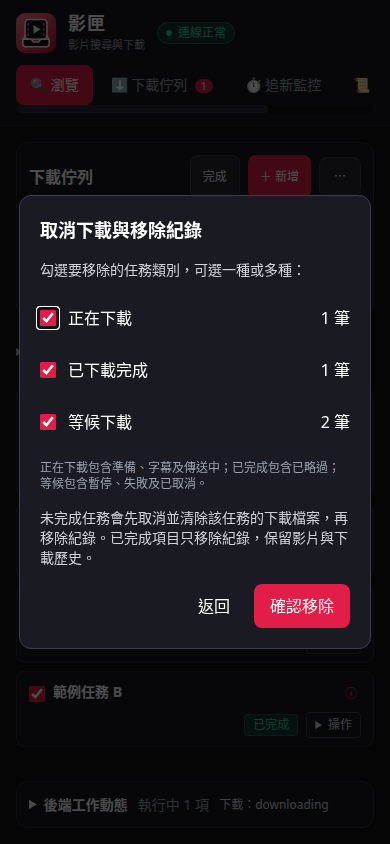
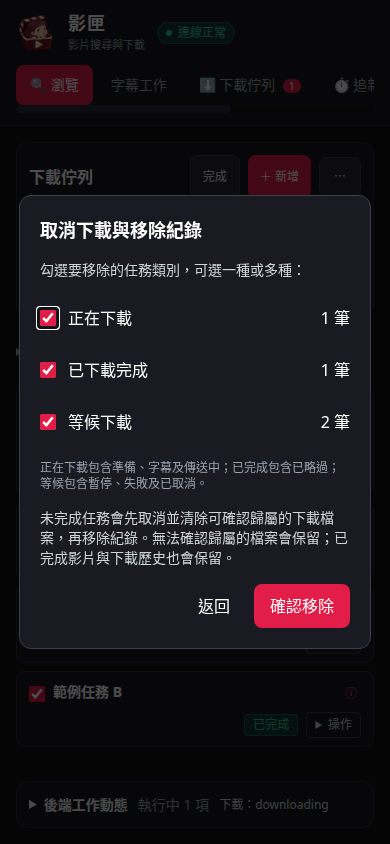
fix: preserve unknown files when removing downloads

diff --git a/uav-web/frontend/task-selection.js b/uav-web/frontend/task-selection.js
@@ -95,11 +95,14 @@ window.createTaskSelection = ({taskAction}) => {
     document.getElementById('task-remove-dialog').close();
     const status = document.getElementById('queue-action-status');
     status.textContent = `正在取消、清理並移除 ${ids.length} 個任務…`;
+    let preservedNotice = '';
     try {
       const response = await fetch('/api/download/action', {method:'POST', headers:{'Content-Type':'application/json'}, body:JSON.stringify({action:'cancel_remove', task_ids:ids})});
       const result = await response.json();
       if (!response.ok || !result.success) throw new Error(result.error || '批次取消失敗');
       const pending = new Set(ids);
+      const unverified = new Set(result.unverified || []);
+      if (unverified.size) preservedNotice = `；${unverified.size} 個任務缺少檔案歸屬紀錄，無法確認歸屬的檔案會保留，請手動檢查`;
       const failures = result.errors.map(item => item.error);
       for (const item of result.errors) pending.delete(item.task_id);
       let removed = 0;
@@ -122,9 +125,9 @@ window.createTaskSelection = ({taskAction}) => {
         status.textContent = `已移除 ${removed} 個；${pending.size} 個仍在停止或清理中…`;
         if (pending.size) await new Promise(resolve => setTimeout(resolve, 250));
       }
-      status.textContent = `已移除 ${removed} 個；${failures.length} 個失敗${pending.size ? `；${pending.size} 個仍在背景處理，完成後會自動移除紀錄` : ''}。${failures.length ? ` ${failures[0]}` : ''}`;
+      status.textContent = `已移除 ${removed} 個；${failures.length} 個失敗${preservedNotice}${pending.size ? `；${pending.size} 個仍在背景處理，完成後會自動移除紀錄` : ''}。${failures.length ? ` ${failures[0]}` : ''}`;
     } catch (error) {
-      status.textContent = `批次移除未完成：${error.message}；請確認清單後重試。`;
+      status.textContent = `批次移除未完成：${error.message}；請確認清單後重試${preservedNotice}。`;
     } finally {
       busy = false;
       update();

diff --git a/uav-web/frontend/index.html b/uav-web/frontend/index.html
@@ -542,7 +542,7 @@
         <label class="min-h-11 flex items-center gap-3"><input id="task-remove-waiting" type="checkbox" class="w-4 h-4 accent-brand-600">等候下載 <span class="ml-auto"><span id="task-remove-waiting-count">0</span> 筆</span></label>
       </div>
       <p class="text-xs text-gray-400">正在下載包含準備、字幕及傳送中；已完成包含已略過；等候包含暫停、失敗及已取消。</p>
-      <p class="text-sm text-gray-300">未完成任務會先取消並清除該任務的下載檔案，再移除紀錄。已完成項目只移除紀錄，保留影片與下載歷史。</p>
+      <p class="text-sm text-gray-300">未完成任務會先取消並清除可確認歸屬的下載檔案，再移除紀錄。無法確認歸屬的檔案會保留；已完成影片與下載歷史也會保留。</p>
       <p id="task-remove-error" role="alert" class="text-sm text-rose-400"></p>
       <div class="flex justify-end gap-3"><button type="button" onclick="document.getElementById('task-remove-dialog').close()" class="min-h-11 px-3">返回</button><button type="submit" class="min-h-11 px-4 bg-rose-600 rounded-lg">確認移除</button></div>
     </form>

diff --git a/tests/test_daemon_downloads.py b/tests/test_daemon_downloads.py
@@ -296,8 +296,8 @@ def test_cleanup_failure_survives_restart_without_claiming_files_removed(manager
     restored = tm.TaskManager(state_path=path)
     assert 'permission denied' in restored.list_tasks()[0]['error']
     assert restored.cancel_task(task.task_id)
-    assert restored.list_tasks()[0]['status'] == 'failed'
-    assert '無法確認清除範圍' in restored.list_tasks()[0]['error']
+    assert restored.list_tasks()[0]['status'] == 'cancelled'
+    assert '檔案已保留' in restored.list_tasks()[0]['error']
 
 
 def test_cancelled_task_with_storage_close_failure_stays_visible(manager, monkeypatch):
@@ -1143,7 +1143,7 @@ def test_batch_cancel_rejects_invalid_selection_before_mutating(manager, ids):
     assert not task.cancelled_event.is_set()
 
 
-def test_batch_remove_preserves_completed_files_and_failed_cleanup(manager, tmp_path):
+def test_batch_remove_preserves_completed_and_unverified_files(manager, tmp_path):
     tasks = [manager.add_task(f'https://missav.ai/remove-{i}') for i in range(4)]
     files = tm.DownloadFiles(tasks[0].dest, tasks[0].task_id)
     video = Path(tasks[0].dest) / 'finished.mp4'
@@ -1155,11 +1155,15 @@ def test_batch_remove_preserves_completed_files_and_failed_cleanup(manager, tmp_
     tasks[2].status = 'failed'
     tasks[2].cleanup_unverified = True
     ids = [t.task_id for t in tasks]
-    manager.cancel_tasks(ids, remove_records=True)
-    assert all(manager.get_task(ids[i]) is None for i in [0, 1, 3])
+    workspace = Path(tasks[2].dest) / f'.uav-{tasks[2].task_id}-unknown'
+    workspace.mkdir()
+    unknown = workspace / 'segment.part'
+    unknown.write_bytes(b'preserve')
+    result = manager.cancel_tasks(ids, remove_records=True)
+    assert result['unverified'] == [ids[2]]
+    assert all(manager.get_task(tid) is None for tid in ids)
     assert video.read_bytes() == b'keep'
-    assert manager.get_task(ids[2]) is tasks[2]
-    assert tasks[2].status == 'failed'
+    assert unknown.read_bytes() == b'preserve'
 
 
 def test_batch_removal_finishes_in_worker_without_browser_polling(manager, monkeypatch, tmp_path):
@@ -1181,13 +1185,16 @@ def test_batch_removal_finishes_in_worker_without_browser_polling(manager, monke
     assert not Path(task.files.workdir).exists()
 
 
-def test_retry_after_failed_removal_clears_removal_intent(manager):
+def test_retry_after_failed_removal_clears_removal_intent(manager, monkeypatch):
     task = manager.add_task('https://missav.ai/retry-removal')
     task.status = 'failed'
-    task.cleanup_unverified = True
+    task.files = tm.DownloadFiles(task.dest, task.task_id)
+    def fail_cleanup(**kwargs):
+        raise OSError('permission denied')
+    monkeypatch.setattr(task.files, 'cleanup', fail_cleanup)
     manager.cancel_tasks([task.task_id], remove_records=True)
     assert task.remove_after_cancel and task.status == 'failed'
-    task.cleanup_unverified = False
+    assert 'permission denied' in task.error
     assert manager.restart_task(task.task_id)
     assert task.status == 'pending'
     assert task.remove_after_cancel is False
@@ -1200,3 +1207,42 @@ def test_batch_removal_saves_intent_and_result_once_each(manager, monkeypatch, t
     monkeypatch.setattr(tm.os, 'replace', replace)
     manager.cancel_tasks([task.task_id for task in tasks], remove_records=True)
     assert replace.call_count == 2, 'Persist batch intent and final result, not the entire queue per item'
+
+
+def test_restored_unverified_task_can_be_removed_without_deleting_its_workspace(manager, tmp_path):
+    manager._state_path = tmp_path / 'tasks.json'
+    task = manager.add_task('https://missav.ai/restored-unknown')
+    task.status = 'failed'
+    manager._save_tasks()
+    workspace = Path(task.dest) / f'.uav-{task.task_id}-old'
+    workspace.mkdir(parents=True)
+    fragment = workspace / 'fragment.part'
+    fragment.write_bytes(b'keep')
+    restored = tm.TaskManager(state_path=manager._state_path)
+    assert restored.get_task(task.task_id).cleanup_unverified
+    result = restored.cancel_tasks([task.task_id], remove_records=True)
+    assert result['unverified'] == [task.task_id]
+    assert restored.get_task(task.task_id) is None
+    assert fragment.read_bytes() == b'keep'
+    assert tm.TaskManager(state_path=manager._state_path).get_task(task.task_id) is None
+
+
+def test_unverified_cancel_then_restart_and_remove_reports_preserved_files(manager, tmp_path):
+    manager._state_path = tmp_path / 'tasks.json'
+    task = manager.add_task('https://missav.ai/unknown-cancel-first')
+    task.status = 'failed'
+    manager._save_tasks()
+    workspace = Path(task.dest) / f'.uav-{task.task_id}-old'
+    workspace.mkdir(parents=True)
+    fragment = workspace / 'fragment.part'
+    fragment.write_bytes(b'keep')
+    first = tm.TaskManager(state_path=manager._state_path)
+    assert first.cancel_task(task.task_id)
+    assert first.get_task(task.task_id).status == 'cancelled'
+    assert '保留' in first.get_task(task.task_id).error
+    second = tm.TaskManager(state_path=manager._state_path)
+    assert second.get_task(task.task_id).cleanup_unverified
+    result = second.cancel_tasks([task.task_id], remove_records=True)
+    assert result['unverified'] == [task.task_id]
+    assert second.get_task(task.task_id) is None
+    assert fragment.read_bytes() == b'keep'

diff --git a/src/uav_downloader/daemon/task_manager.py b/src/uav_downloader/daemon/task_manager.py
@@ -152,7 +152,7 @@ class TaskManager:
                 if files:
                     task.files = DownloadFiles.restore(task.dest, task.task_id, files, task.staging_dir)
                 # Old snapshots have no file ownership manifest; never assume their files were removed.
-                task.cleanup_unverified = not task.subtitles_only and not files and task.status not in ("pending", "completed", "skipped", "cancelled", "paused")
+                task.cleanup_unverified = task.cleanup_unverified or (not task.subtitles_only and not files and task.status not in ("pending", "completed", "skipped", "cancelled", "paused"))
                 if task.status == 'pausing':
                     task.status = 'paused'
                 if task.status not in ("completed", "skipped", "cancelled", "failed", "paused"):
@@ -173,6 +173,8 @@ class TaskManager:
                 record = {key: value for key, value in task.to_dict().items() if key not in ('speed_formatted', 'final_dest')}
                 if task.remove_after_cancel:
                     record['remove_after_cancel'] = True
+                if task.cleanup_unverified:
+                    record['cleanup_unverified'] = True
                 record['dest'] = task.dest
                 record['nas_settings'] = {key: value for key, value in task.nas_settings.items()
                                           if key not in ('password', 'password_encrypted', 'password_saved')}
@@ -625,12 +627,14 @@ class TaskManager:
         if (not isinstance(task_ids, list) or not task_ids
                 or any(not isinstance(tid, str) or not tid for tid in task_ids)):
             raise ValueError('請提供非空的 task_ids 文字清單')
-        accepted, skipped, errors = [], [], []
+        accepted, skipped, errors, unverified = [], [], [], []
         with self._lock:
             for tid in dict.fromkeys(task_ids):
                 task = self._tasks.get(tid)
                 if task and remove_records:
                     task.remove_after_cancel = True
+                if task and task.cleanup_unverified and task.status not in ('completed', 'skipped'):
+                    unverified.append(tid)
                 if not task or task.status in ('completed', 'skipped', 'cancelled'):
                     skipped.append(tid)
                     continue
@@ -654,7 +658,10 @@ class TaskManager:
             except Exception as exc:
                 errors.append({'task_id': tid, 'error': str(exc)})
         self._save_tasks()
-        return {'accepted': accepted, 'skipped': skipped, 'errors': errors}
+        result = {'accepted': accepted, 'skipped': skipped, 'errors': errors}
+        if remove_records:
+            result['unverified'] = unverified
+        return result
 
     def cancel_task(self, task_id: str, *, defer_save=False) -> bool:
         with self._lock:
@@ -679,7 +686,7 @@ class TaskManager:
                         task.files.filesystem = storage_fs(task.staging_dir or task.dest)
                     self._cleanup_cancelled(task)
             except (OSError, nas.NasError) as exc:
-                task.error = f"取消後檔案清除失敗，請恢復儲存連線後重試取消：{exc}"
+                task.error = f"取消後檔案清除失敗：{exc}"
                 task.status = "failed"
         if not defer_save:
             self._save_tasks()
@@ -688,7 +695,10 @@ class TaskManager:
     def _cleanup_cancelled(self, task):
         try:
             if task.cleanup_unverified:
-                raise OSError("服務重啟後缺少檔案歸屬紀錄，無法確認清除範圍；請手動檢查下載目錄")
+                task.error = "缺少檔案歸屬紀錄，相關檔案已保留；請手動檢查下載目錄"
+                task.status = "cancelled"
+                task.updated_at = datetime.now(timezone.utc).isoformat()
+                return
             if task.remote_files:
                 nas.cleanup_upload(task.nas_settings, task.remote_files)
             if task.files:
@@ -698,7 +708,7 @@ class TaskManager:
             task.status = "cancelled"
             task.updated_at = datetime.now(timezone.utc).isoformat()
         except (OSError, nas.NasError) as exc:
-            task.error = f"取消後檔案清除失敗，請恢復儲存連線後重試取消：{exc}"
+            task.error = f"取消後檔案清除失敗：{exc}"
             task.status = "failed"
 
     def cancel_all(self) -> None:

diff --git a/tests/test_web_download_settings.py b/tests/test_web_download_settings.py
@@ -743,3 +743,19 @@ def test_batch_cancel_remove_api_finishes_without_browser_followup(web_settings)
     status, result = request('/api/download/action', {'action': 'cancel_remove', 'task_ids': ids})
     assert status == 200 and result['success']
     assert all(server.task_manager.get_task(tid) is None for tid in ids)
+
+
+def test_batch_cancel_remove_preserves_unverified_files(web_settings):
+    request, server, root = web_settings
+    task = server.task_manager.add_task('https://missav.ai/unverified-file')
+    task.status = 'failed'
+    task.cleanup_unverified = True
+    workspace = Path(task.dest) / f'.uav-{task.task_id}-unknown'
+    workspace.mkdir(parents=True)
+    file = workspace / 'fragment.part'
+    file.write_bytes(b'preserve')
+    status, result = request('/api/download/action', {'action': 'cancel_remove', 'task_ids': [task.task_id]})
+    assert status == 200 and result['success']
+    assert result['unverified'] == [task.task_id]
+    assert server.task_manager.get_task(task.task_id) is None
+    assert file.read_bytes() == b'preserve'
